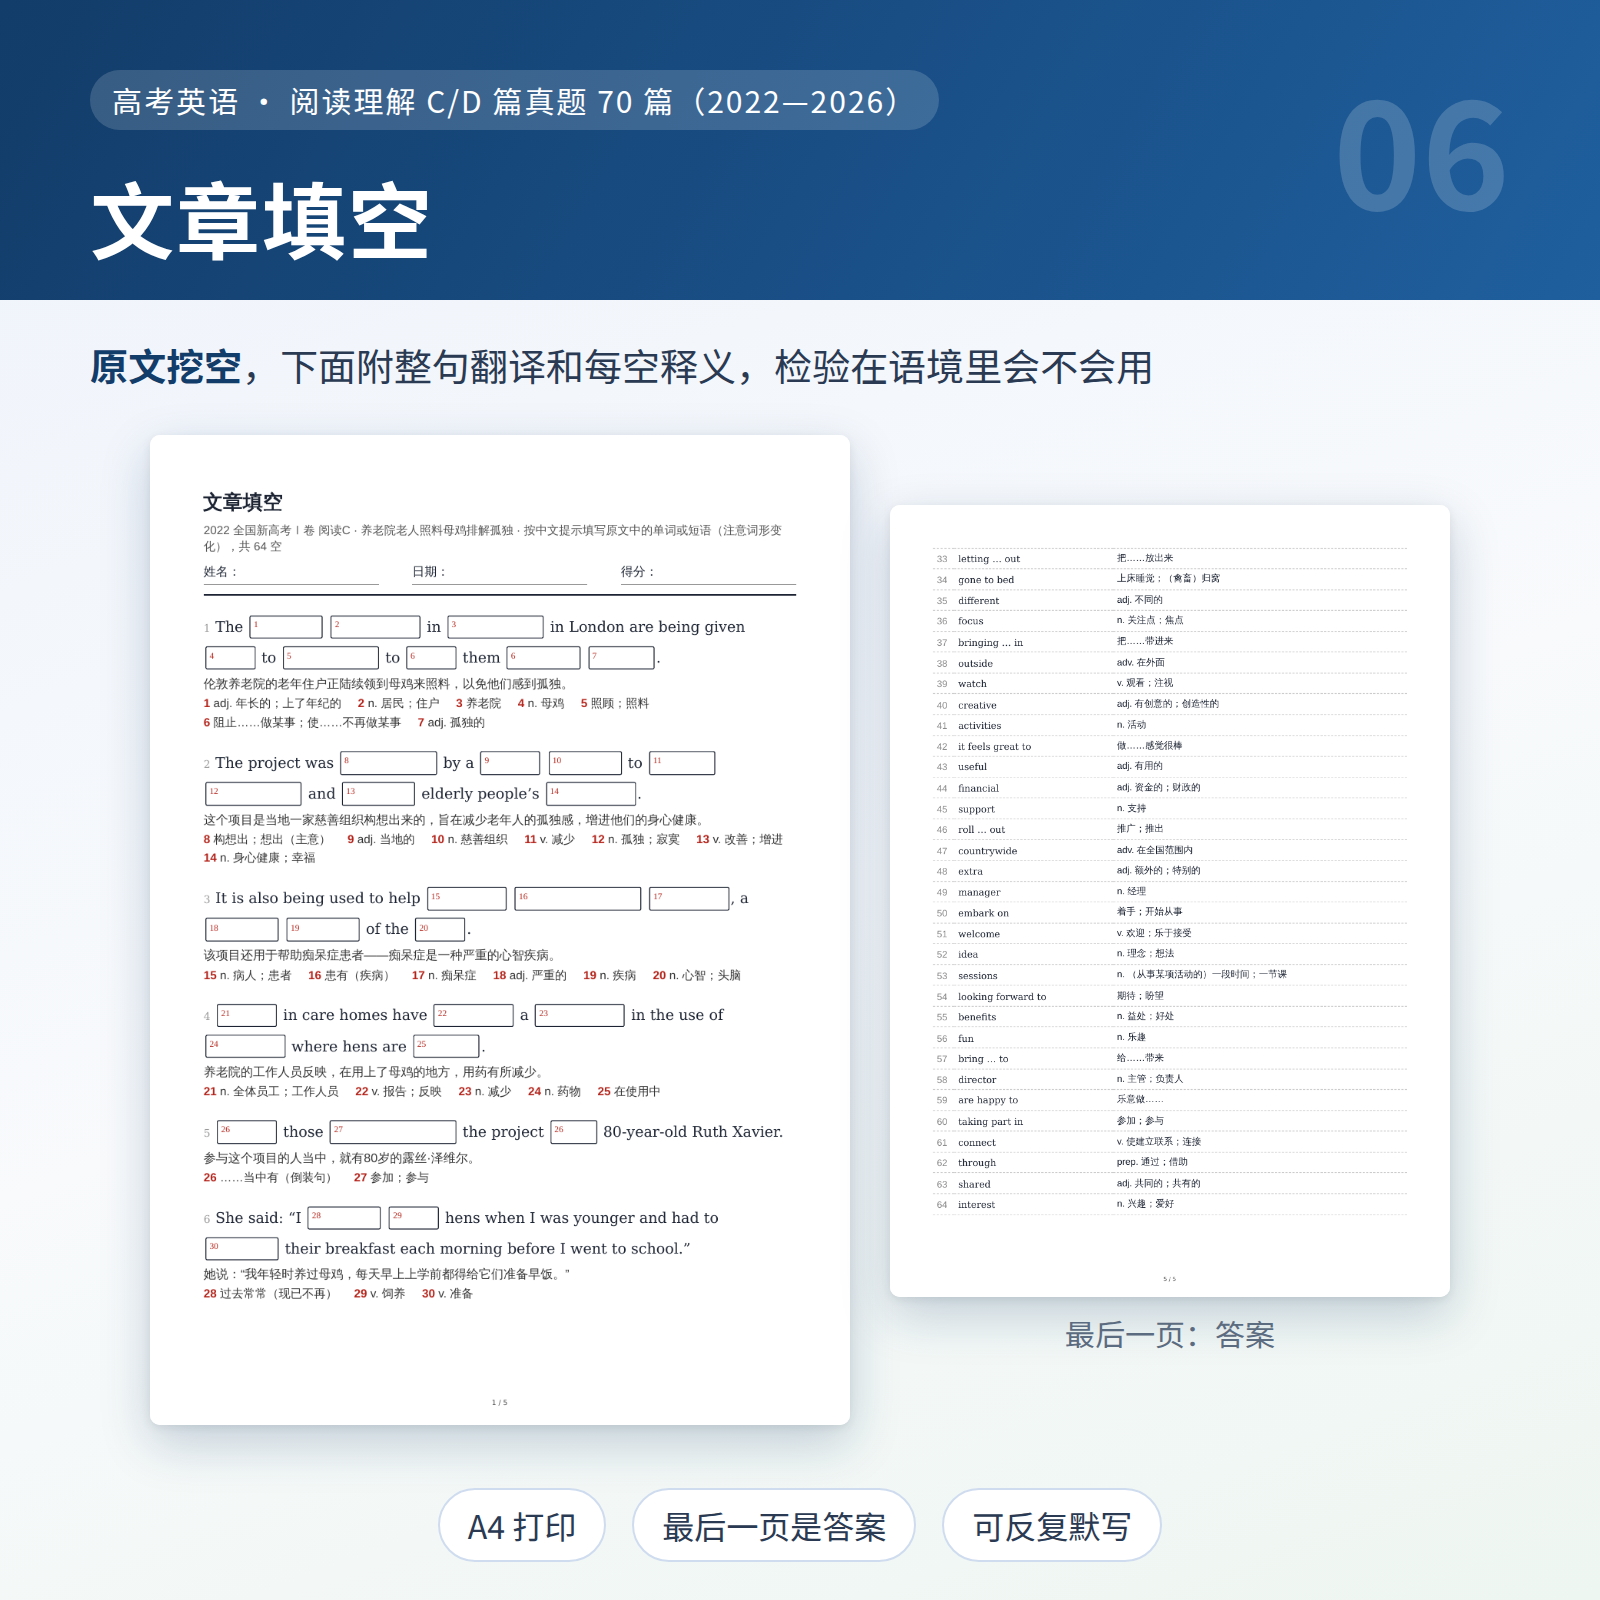
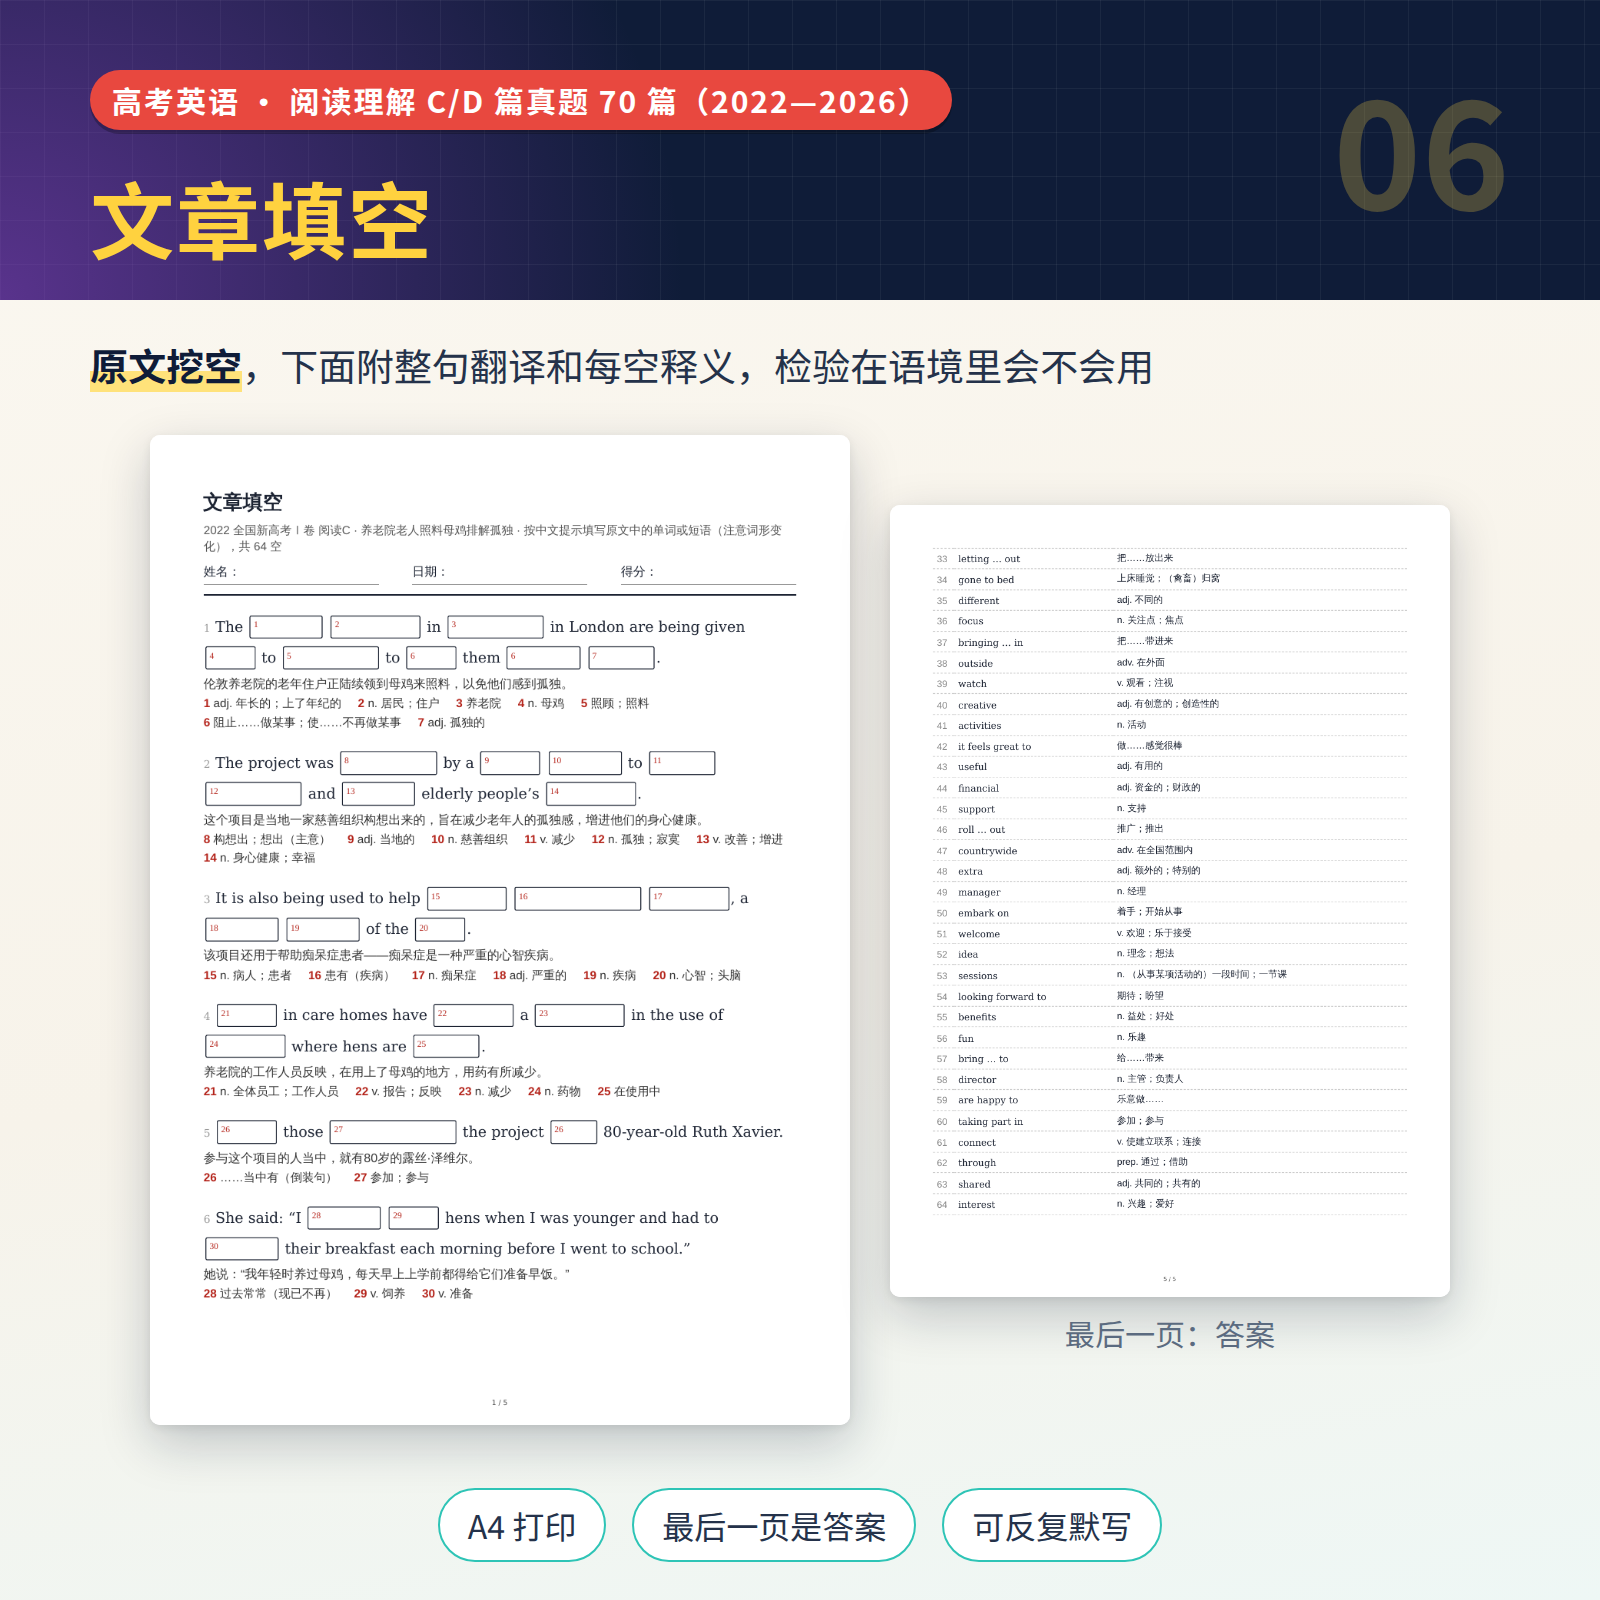
高考商品图改用高考主题色（取自高考 B 站封面：深海军蓝网格 + 紫色光晕、亮黄大字、珊瑚红标签、青绿描边）；新增 zh_bind.py（考研审阅断行规则，未接入）
Claude-Session: https://claude.ai/code/session_01Bo2nvX3EdvyJhDdDqVayNH

Changed region(s): [[0.0, 0.0, 1.0, 0.1875], [0.0312, 0.2188, 0.1562, 0.25], [0.5625, 0.9375, 0.5938, 0.9688]]

diff --git a/中考/tools/画面核查/zh_bind.py b/中考/tools/画面核查/zh_bind.py
@@ -1,0 +1,84 @@
+"""排版引擎（专八/tools/make_video.py）与排版检查（layoutcheck.py）共用的“不许拆开”的片段（考研截图盲审 2026-10-21）。
+
+引擎用它决定哪里不断行，检查程序用它逐屏量实际断行位置：规则只写在这一处，两边不会不一致。
+
+zh_spans(s, jieba)：中文里不许断开的片段 [(起, 止)]
+  ① 名词性复合词：相邻两个词都是 2 个字以上、后一个是名词性（n、vn、nz、ns、nt、nr、ng、an、j），前一个是名词性 / 动词 / 形容词 / 区别词，
+     合起来不超过 6 个字（服务人员、会员资格、保障措施、再生农业、非营利组织、联邦通信委员会、千禧技术奖）；
+  ② 前缀词与后面的词：不、可、非、这一、每一、这些……（不稳定、可持续、这一威胁）；
+  ③ 单字后缀与前面的词：们、型、性、化、者、家、式、级、类（父母们、气候友好型）；“得多”“得很”与前面的词；
+  ④ 单字介词、连词与后面不超过 3 个字的词：以、与、和、把、被、在、为、对……（以 / 医院为中心、与 / 空间科学）；
+  ⑤ 数字与后面不超过 3 个字的词（20世纪90 / 年代）。
+  一串连起来的片段超过 8 个字就不再往上接（防止一大块不断行、上一行空出一截）。
+en_spans(t)：英文里不许断开的片段 [(起, 止)]
+  ① 专名：连续 2—4 个首字母大写的词（去掉开头的 The、When、In 这类普通词），总长不超过 32 个字符
+     （Brett Kavanaugh、West Virginia、San Francisco、Apple TV.、California Attorney General）；
+  ② 数字 or/to/and 数字（18 or 21）。
+"""
+import re
+
+NOUN = {'n', 'vn', 'nz', 'ns', 'nt', 'nr', 'ng', 'an', 'j', 'nrt', 'nrfg', 'nw'}
+HEAD = NOUN | {'v', 'a', 'b', 'vd', 'ad'}
+PREFIX = {'不', '可', '非', '这', '那', '每', '各', '该', '某', '此', '这一', '那一', '每一', '同一', '这些', '那些', '这个', '那个', '这种', '那种',
+          '这项', '这场', '这位', '这次', '这样', '那样'}
+SUFFIX1 = set('们型性化者家式级类')
+TAIL = {'得多', '得很'}
+FUNC1 = set('以与和及把被将对向从在为让使给跟同由')
+MAXLEN = 8
+han = lambda w: bool(w) and all('一' <= c <= '鿿' for c in w)
+
+
+def zh_spans(s, jieba):
+    import jieba.posseg as pseg
+    ws, pos = [], 0
+    for w, f in pseg.lcut(s):
+        ws.append((pos, pos + len(w), w, f))
+        pos += len(w)
+    pairs = []
+    for (a, _, x, fx), (_, b, y, fy) in zip(ws, ws[1:]):
+        if not han(y):
+            continue
+        if han(x) and len(x) >= 2 and len(y) >= 2 and fy in NOUN and fx in HEAD and b - a <= 6:
+            pairs.append((a, b))
+        elif x in PREFIX and len(y) <= 4:
+            pairs.append((a, b))
+        elif han(x) and (len(y) == 1 and y in SUFFIX1 or y in TAIL):
+            pairs.append((a, b))
+        elif x in FUNC1 and len(y) <= 3:
+            pairs.append((a, b))
+        elif re.fullmatch(r'\d+', x) and len(y) <= 3:
+            pairs.append((a, b))
+    out = []
+    for a, b in pairs:                     # 连成串；超过 MAXLEN 个字就不再接上去
+        if out and a < out[-1][1]:
+            if max(b, out[-1][1]) - out[-1][0] <= MAXLEN:
+                out[-1] = (out[-1][0], max(b, out[-1][1]))
+        else:
+            out.append((a, b))
+    return out
+
+
+STOP = {'The', 'A', 'An', 'In', 'On', 'At', 'But', 'And', 'If', 'When', 'As', 'For', 'So', 'This', 'That', 'These', 'Those', 'It', 'Its',
+        'We', 'They', 'He', 'She', 'I', 'You', 'Yet', 'Or', 'Though', 'Although', 'While', 'After', 'Before', 'Since', 'Because', 'With',
+        'Without', 'From', 'By', 'To', 'Of', 'Our', 'Their', 'His', 'Her', 'My', 'Your', 'What', 'Why', 'How', 'Where', 'Who', 'Which',
+        'There', 'Here', 'Now', 'Then', 'Still', 'Even', 'Many', 'Most', 'Some', 'All', 'Such', 'One', 'Two', 'Like', 'Unlike', 'Under',
+        'Over', 'According', 'Despite', 'During', 'Last', 'Next', 'Each', 'Every', 'Both', 'No', 'Not', 'Only', 'Just', 'Also', 'Yes'}
+CAP = r"[A-Z][A-Za-z’'.&-]*"
+
+
+def en_spans(t):
+    out = []
+    for m in re.finditer(rf"{CAP}(?: {CAP})+", t):
+        ws = m.group(0).split(' ')
+        st = m.start()
+        while ws and ws[0] in STOP:
+            st += len(ws[0]) + 1
+            ws = ws[1:]
+        while len(ws) > 4:                 # 太长：只绑前 4 个词
+            ws = ws[:4]
+        if len(ws) >= 2:
+            e = st + len(' '.join(ws))
+            if e - st <= 32:
+                out.append((st, e))
+    out += [m.span() for m in re.finditer(r'\b\d+ (?:or|to|and) \d+\b', t)]
+    return out

diff --git a/六级/tools/宣传图.py b/六级/tools/宣传图.py
@@ -55,10 +55,30 @@ h1{font-family:'ZH Bold',sans-serif;font-size:84px;margin-top:26px;letter-spacin
 """
 
 
+# 高考配色（用户 2026-10-21：用高考自己的主题色，不要和六级一模一样）：取自高考 B 站封面（深海军蓝网格底 + 左下紫色光晕、亮黄大字、
+# 珊瑚红标签、青绿描边标签）和视频画面（米白底，青绿 / 橙色高亮）。放在页面最后，覆盖上面和各图里的同名样式；版式不变。
+GK_CSS = """
+body{background:linear-gradient(170deg,#fbf8f1 0%,#f7f3ea 60%,#eef7f5 100%)}
+.top{background-color:#0f1c38;background-image:radial-gradient(circle at 0% 100%,rgba(150,70,210,.55),transparent 42%),
+  linear-gradient(rgba(255,255,255,.05) 1px,transparent 1px),linear-gradient(90deg,rgba(255,255,255,.05) 1px,transparent 1px);
+  background-size:auto,44px 44px,44px 44px}
+.tag{background:#e8483f;color:#fff;font-family:'ZH Bold',sans-serif;box-shadow:0 4px 0 rgba(0,0,0,.25)}
+h1{color:#ffd23f}.no{color:rgba(255,210,63,.25)}
+.desc{color:#24324a}.desc b{color:#0f1c38;background:linear-gradient(transparent 62%,#ffe27a 62%)}
+.chip{border-color:#2ec4b6;color:#24324a}.chip b{color:#0f8b8d}
+.notice{background:#0f1c38;border-top-color:#ffd23f;color:#ffd23f}
+.pg,.win,.pl{box-shadow:0 18px 50px rgba(15,28,56,.22),0 3px 10px rgba(0,0,0,.08)}
+.bar{background:#eef0f4}.r.hl{background:#fff4c7;color:#8a5a00}.fn{color:#0f1c38}
+.ic{background:#e8483f}.ic.mp3{background:#14a39a}.fo,.fo:before{background:#ffc93c}
+.ttl{color:#0f1c38}.wave i{background:linear-gradient(#2ec4b6,#0f8b8d)}.btn{background:#0f1c38}
+"""
+
+
 def page(no, title, desc, stage, bottom):
     return (f"<!doctype html><html><head><meta charset='utf-8'>{FONTS}<style>{CSS}</style></head><body>"
             f"<div class='top'><span class='tag'>{TAG}</span><h1>{title}</h1><div class='no'>{no}</div></div>"
-            f"<div class='desc'>{desc}</div><div class='stage'>{stage}</div>{bottom}</body></html>")
+            f"<div class='desc'>{desc}</div><div class='stage'>{stage}</div>{bottom}"
+            + (f"<style>{GK_CSS}</style>" if GK else '') + "</body></html>")
 
 
 def chips(*xs):
